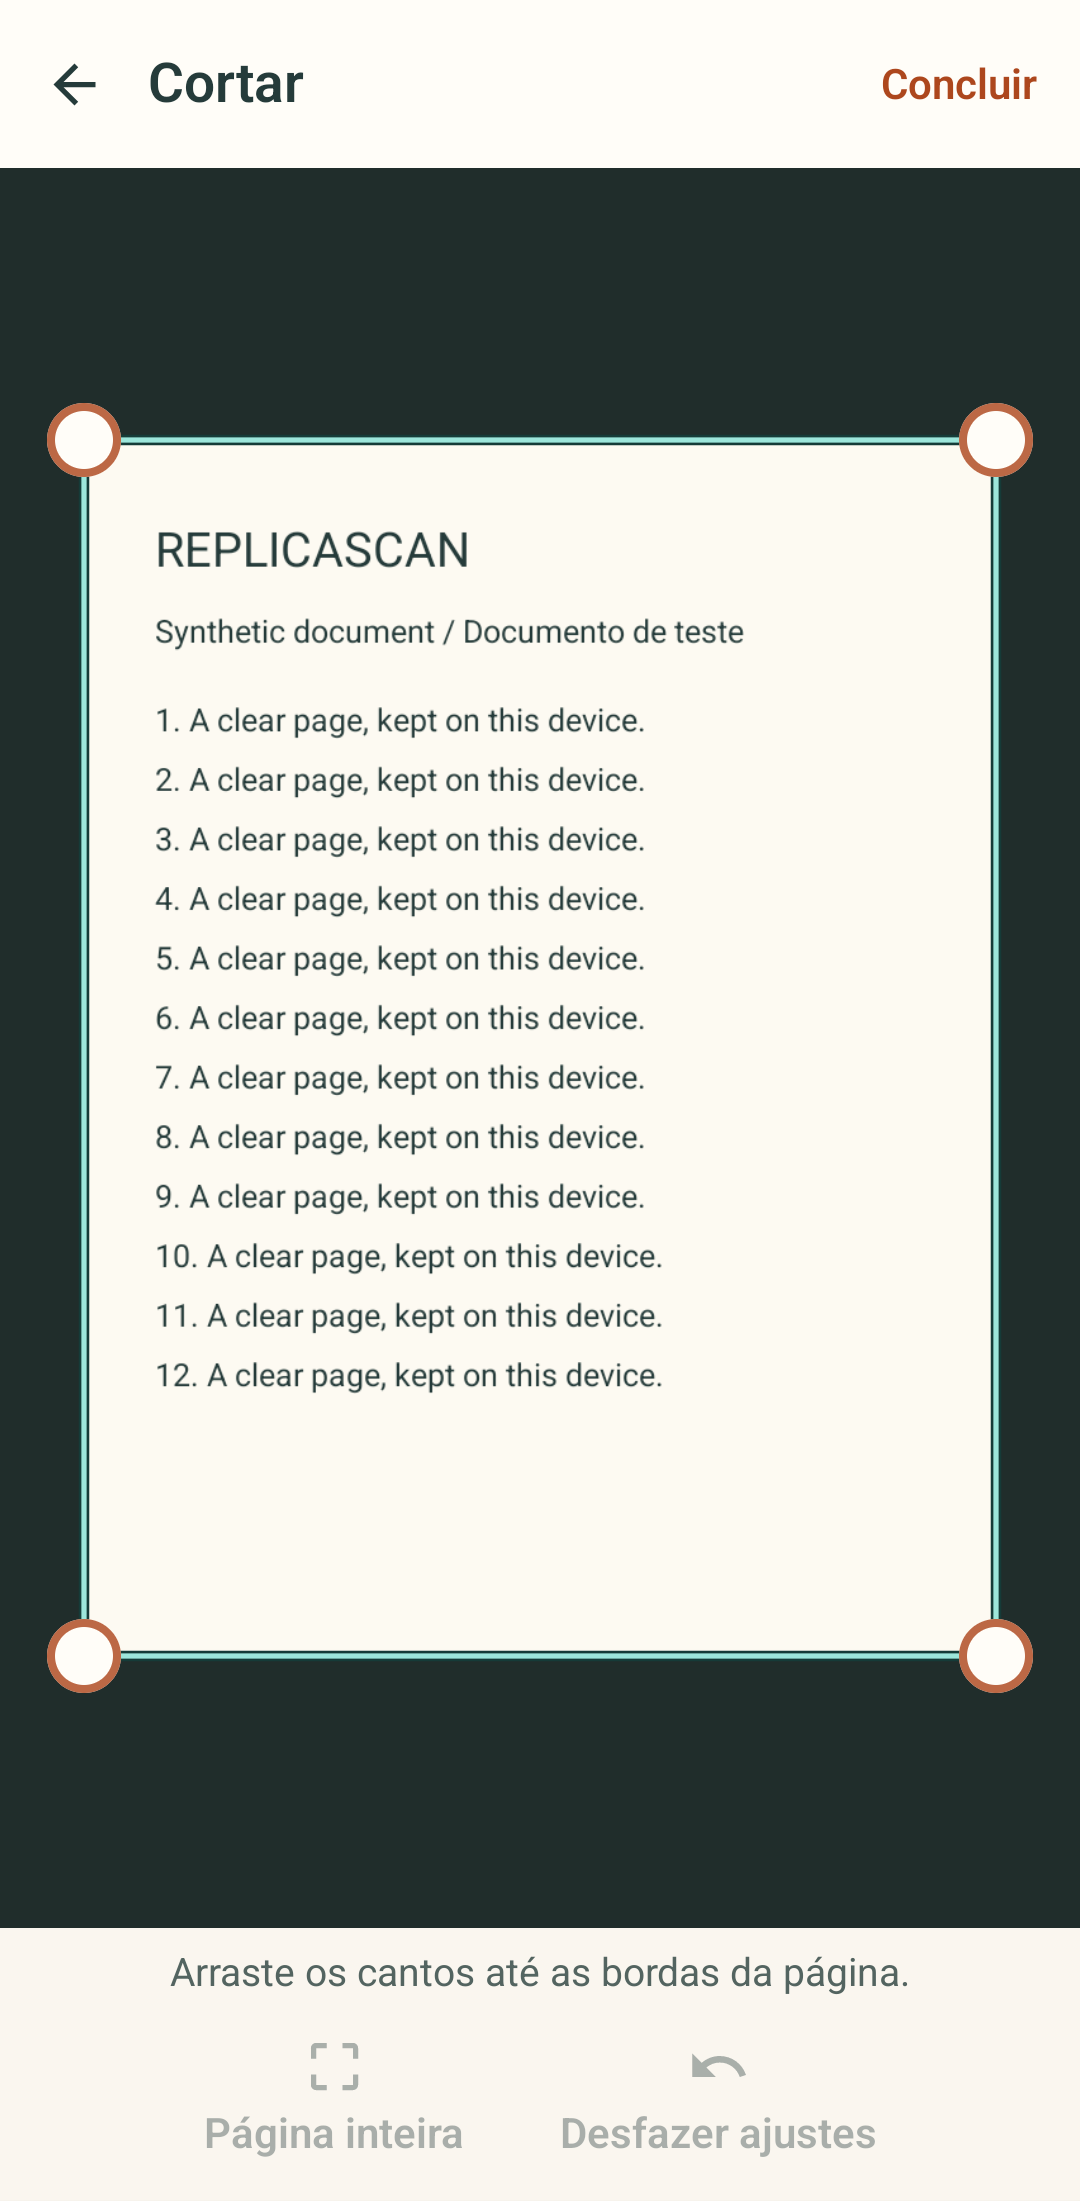
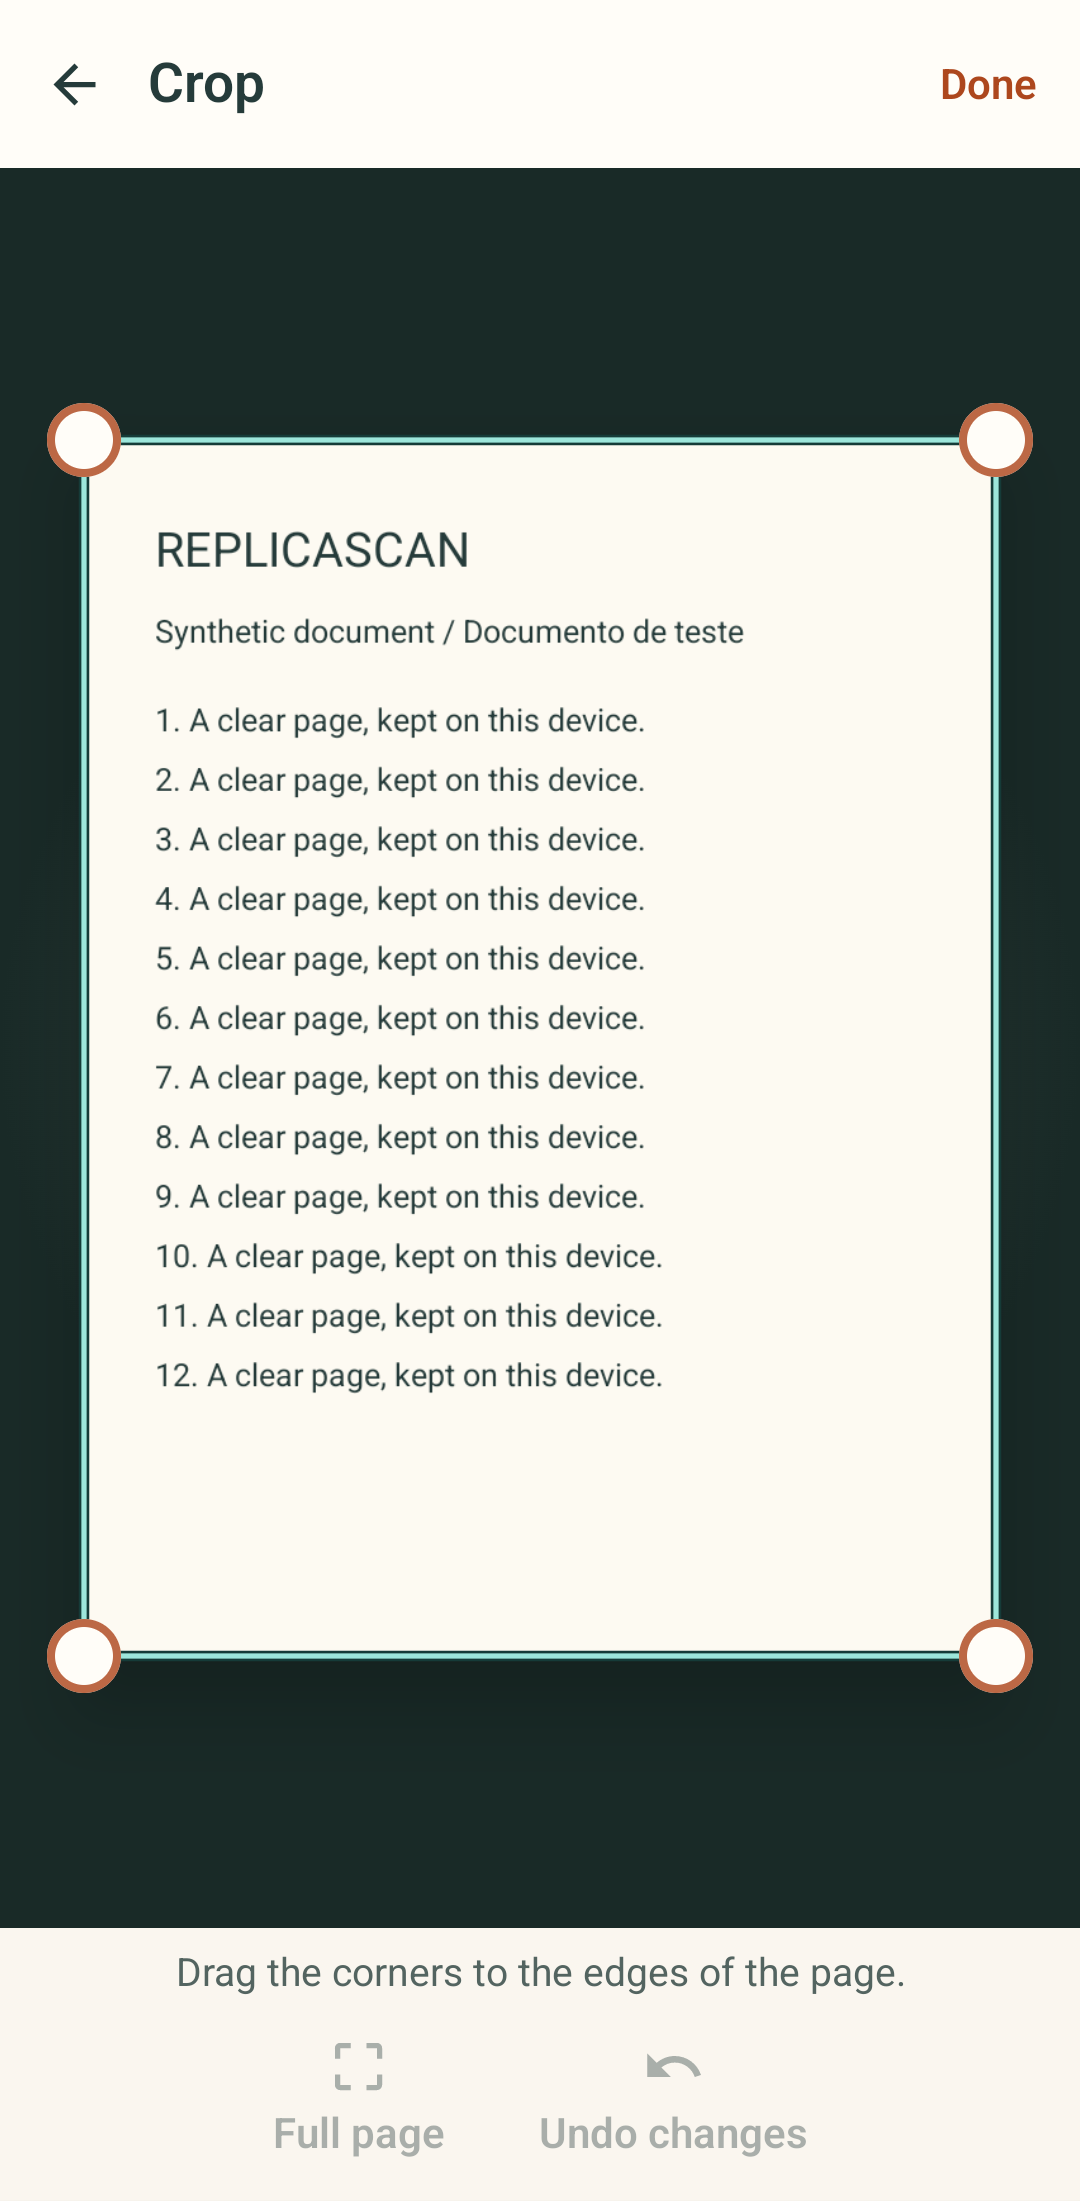
feat(editor): give review and crop a lit paper stage

diff --git a/feature-editor/src/main/java/com/soturine/replicascan/feature/editor/CropScreen.kt b/feature-editor/src/main/java/com/soturine/replicascan/feature/editor/CropScreen.kt
@@ -3,6 +3,7 @@ package com.soturine.replicascan.feature.editor
 import androidx.compose.animation.AnimatedContent
 import androidx.compose.foundation.background
 import androidx.compose.foundation.layout.Arrangement
+import androidx.compose.foundation.layout.Box
 import androidx.compose.foundation.layout.BoxWithConstraints
 import androidx.compose.foundation.layout.Column
 import androidx.compose.foundation.layout.Row
@@ -11,6 +12,7 @@ import androidx.compose.foundation.layout.fillMaxWidth
 import androidx.compose.foundation.layout.heightIn
 import androidx.compose.foundation.layout.navigationBarsPadding
 import androidx.compose.foundation.layout.padding
+import androidx.compose.foundation.layout.size
 import androidx.compose.material.icons.Icons
 import androidx.compose.material.icons.automirrored.outlined.Undo
 import androidx.compose.material.icons.outlined.CropFree
@@ -32,8 +34,12 @@ import androidx.compose.runtime.saveable.rememberSaveable
 import androidx.compose.runtime.setValue
 import androidx.compose.ui.Alignment
 import androidx.compose.ui.Modifier
+import androidx.compose.ui.draw.shadow
 import androidx.compose.ui.geometry.Rect
+import androidx.compose.ui.graphics.Brush
+import androidx.compose.ui.graphics.Color
 import androidx.compose.ui.layout.ContentScale
+import androidx.compose.ui.platform.LocalDensity
 import androidx.compose.ui.res.stringResource
 import androidx.compose.ui.semantics.LiveRegionMode
 import androidx.compose.ui.semantics.liveRegion
@@ -101,7 +107,7 @@ fun CropScreen(
                 modifier = Modifier
                     .weight(1f)
                     .fillMaxWidth()
-                    .background(androidx.compose.ui.graphics.Color(0xFF202D2B))
+                    .background(Brush.radialGradient(listOf(Color(0xFF3E504A), Color(0xFF192A27))))
                     .padding(32.dp),
             )
             Column(
@@ -172,8 +178,18 @@ private fun DocumentCropPreview(
 ) {
     var imageSize by remember(imageUri) { mutableStateOf(IntSize.Zero) }
     BoxWithConstraints(modifier = modifier) {
+        val density = LocalDensity.current
         val imageBounds = remember(constraints.maxWidth, constraints.maxHeight, imageSize) {
             computeFittedBounds(constraints.maxWidth.toFloat(), constraints.maxHeight.toFloat(), imageSize)
+        }
+        imageBounds?.let { bounds ->
+            Box(
+                Modifier
+                    .padding(start = with(density) { bounds.left.toDp() }, top = with(density) { bounds.top.toDp() })
+                    .size(with(density) { bounds.width.toDp() }, with(density) { bounds.height.toDp() })
+                    .shadow(18.dp, MaterialTheme.shapes.extraSmall)
+                    .background(Color(0xFFFFFBF2)),
+            )
         }
         AsyncUriImage(
             imageUri = imageUri,

diff --git a/feature-editor/src/main/java/com/soturine/replicascan/feature/editor/ReviewScreen.kt b/feature-editor/src/main/java/com/soturine/replicascan/feature/editor/ReviewScreen.kt
@@ -60,6 +60,9 @@ import androidx.compose.runtime.setValue
 import androidx.compose.ui.Alignment
 import androidx.compose.ui.Modifier
 import androidx.compose.ui.draw.clip
+import androidx.compose.ui.draw.shadow
+import androidx.compose.ui.graphics.Brush
+import androidx.compose.ui.graphics.Color
 import androidx.compose.ui.layout.ContentScale
 import androidx.compose.ui.layout.onSizeChanged
 import androidx.compose.ui.res.stringResource
@@ -68,6 +71,7 @@ import androidx.compose.ui.semantics.contentDescription
 import androidx.compose.ui.semantics.selected
 import androidx.compose.ui.semantics.semantics
 import androidx.compose.ui.text.style.TextOverflow
+import androidx.compose.ui.unit.IntSize
 import androidx.compose.ui.unit.dp
 import com.soturine.replicascan.core.common.model.ScanDocument
 import com.soturine.replicascan.core.common.model.ScanPage
@@ -266,12 +270,24 @@ private fun PagePreview(
     maxDimension: Int,
     modifier: Modifier = Modifier,
 ) {
-    Box(
+    var imageSize by remember(imageUri) { mutableStateOf(IntSize.Zero) }
+    val colors = MaterialTheme.colorScheme
+    BoxWithConstraints(
         modifier = modifier
-            .background(MaterialTheme.colorScheme.surfaceContainer)
-            .padding(16.dp),
+            .background(Brush.verticalGradient(listOf(colors.surfaceContainerHigh, colors.surfaceContainerLow)))
+            .padding(20.dp),
         contentAlignment = Alignment.Center,
     ) {
+        if (imageSize.width > 0 && imageSize.height > 0) {
+            val aspect = imageSize.width.toFloat() / imageSize.height
+            val paperWidth = minOf(maxWidth, maxHeight * aspect)
+            val paperHeight = paperWidth / aspect
+            Box(
+                Modifier.size(paperWidth, paperHeight)
+                    .shadow(18.dp, MaterialTheme.shapes.extraSmall)
+                    .background(Color(0xFFFFFBF2)),
+            )
+        }
         Crossfade(targetState = imageUri, label = "pagePreview") { uri ->
             AsyncUriImage(
                 imageUri = uri,
@@ -279,6 +295,8 @@ private fun PagePreview(
                 modifier = Modifier.fillMaxSize(),
                 contentScale = ContentScale.Fit,
                 maxDimension = maxDimension,
+                backgroundColor = Color.Transparent,
+                onBitmapLoaded = { imageSize = it },
             )
         }
         if (loading) CircularProgressIndicator(modifier = Modifier.size(36.dp))

diff --git a/docs/design/visual-recovery/SCREEN_REVIEW.md b/docs/design/visual-recovery/SCREEN_REVIEW.md
@@ -1,6 +1,6 @@
 # Revisão das telas — checkpoint de composição
 
-`STATUS: REVISÃO PARCIAL, ACEITE VISUAL PENDENTE` (2026-10-12).
+`STATUS: REVISÃO PARCIAL, ACEITE VISUAL PENDENTE` (2026-10-13).
 
 Fonte: [capturas atuais e comparação Android](evidence/review.html), com
 documento sintético no emulador API 34. O proprietário aprovou o master e as
@@ -9,12 +9,12 @@ automaticamente todas as telas, o movimento ou a release.
 
 | Destino/estado | Observação e decisão | Estado |
 |---|---|---|
-| Home com recentes e vazia | O texto disputava largura com uma raposa pequena. A arte passou a 136 dp e o texto de apoio ocupa a largura completa; em fonte 200%, a arte sai para preservar conteúdo e ações. Espaço inferior com poucos itens continua natural ao conteúdo. | Implementado; capturas API 34 claras, escuras e 200%; aceite pendente |
+| Home com recentes e vazia | Cena nativa de papel e raposa e CTA Escanear de 68 dp. Em fonte 200%, a cena sai para preservar conteúdo e ações. Espaço inferior com poucos itens continua natural ao conteúdo. | Implementado; capturas API 34 claras, escuras e 200%; aceite pendente |
 | Onboarding (3 páginas) | Saudação, leitura e sucesso agora acompanham escanear, revisar e guardar; antes, as duas primeiras páginas repetiam a pose de trabalho. A sequência ainda precisa de inspeção física de swipe/RTL. | Implementado; cinco testes Android focados passaram com a matriz visual; aceite pendente |
-| Revisão, crop e filtros | A página é protagonista, o recorte mantém quatro cantos e página inteira por padrão. Não mover controles nem geometria sem corpus real e teste de gesto. | Preservado; QA físico pendente |
+| Revisão, crop e filtros | Review/Crop dão luz e profundidade à página nativa. O recorte mantém quatro cantos e página inteira por padrão; controles, gesto e geometria não foram movidos. Filtros ainda precisam de refinamento. | Review/Crop capturados em claro e Review em escuro/RTL/fonte 200%; QA físico pendente |
 | OCR carregando, pronto e vazio | Texto reconhecido é a peça principal; o grande espaço livre com texto curto não deve ser preenchido por decoração. Estados de modelo e seleção precisam inspeção com OCR real e TalkBack. | Capturado com estado injetado; fluxo real pendente |
 | Exportação: PDF/JPG/PNG | Prévia, quantidade de páginas e formato atual agora formam uma superfície única; nome, qualidade e tamanho continuam editáveis e progressivos. Estado escuro com fonte 200% exige rolagem para opções inferiores. | Implementado; capturas API 34; aceite pendente |
-| Exportação: progresso, sucesso, erro | Progresso mostra a página real e trabalho em curso, agora agrupados no centro da altura disponível; sucesso identifica o arquivo; erro mantém recuperação. O movimento continua por pose inteira. | Capturado com estado injetado; exportação real/aceite pendentes |
+| Exportação: progresso, sucesso, erro | A mesma folha real e a raposa acompanham preparo, gravação, sucesso e recuperação, com pose articulada conforme o estado. Sucesso identifica o arquivo e erro preserva opções de nova tentativa. | Capturado com estado injetado; exportação real/aceite pendentes |
 | Histórico, busca, detalhe | Uma biblioteca com só um item deixa espaço livre; não adicionar conteúdo artificial. Busca e ações documentais devem ser exercitadas em aparelho. | Capturado; interação pendente |
 | Configurações, idioma, sobre | Grupos e alvos de toque estão claros, embora a linguagem visual ainda seja próxima do Material padrão. Validar todos os idiomas, RTL e fonte ampliada. | Capturado; revisão linguística/QA pendentes |
 | Ícone adaptativo | Raposa + documento são legíveis nas máscaras capturadas, mas o traço vetorial é mais plano que a mascote aprovada. | Divergência visual aberta; escolha do proprietário pendente |

diff --git a/README.md b/README.md
@@ -27,7 +27,7 @@ Não há conta, backend, sincronização ou upload obrigatório de documentos. C
 
 ## Redesign e evidência
 
-A base da v0.4.1 traz papel marfim, tinta petróleo e terracota, revisão de telas, crop com cantos independentes e exportação com nome de arquivo, progresso e recuperação persistente. O visual do ciclo anterior foi rejeitado pelo proprietário. Um novo master e sete poses baseados na raposa da v0.4.0 receberam aceite como arte estática. A pose de atenção teve patas extras corrigidas e um rig candidato com camadas independentes foi capturado no Android. A Home integra a raposa à cena de papel e prioriza Escanear inclusive com fonte 200%; a exportação conecta prévia real e raposa em preparo, progresso, sucesso e erro. Introdução, animação, ícone e conjunto das telas continuam sem aceite final.
+A base da v0.4.1 traz papel marfim, tinta petróleo e terracota, revisão de telas, crop com cantos independentes e exportação com nome de arquivo, progresso e recuperação persistente. O visual do ciclo anterior foi rejeitado pelo proprietário. Um novo master e sete poses baseados na raposa da v0.4.0 receberam aceite como arte estática. A pose de atenção teve patas extras corrigidas e um rig candidato com camadas independentes foi capturado no Android. A Home integra a raposa à cena de papel e prioriza Escanear inclusive com fonte 200%; a exportação conecta prévia real e raposa em preparo, progresso, sucesso e erro. Revisão e recorte receberam luz e profundidade de papel sem mudar os controles de edição. Introdução, animação, ícone e conjunto das telas continuam sem aceite final.
 
 Veja a [auditoria de recuperação visual](docs/design/visual-recovery/AUDIT.md), a [prancha das poses](docs/design/visual-recovery/candidates/review.html), o [clipe e as capturas Android atuais](docs/design/visual-recovery/evidence/README.md), a [revisão por tela](docs/design/visual-recovery/SCREEN_REVIEW.md) e a [matriz de validação](docs/design/visual-recovery/VALIDATION_MATRIX.md). O material novo usa estados injetados e documento sintético; não substitui QA físico, TalkBack humano, revisão linguística nativa ou aceite final.
 

diff --git a/CHANGELOG.md b/CHANGELOG.md
@@ -7,6 +7,7 @@ Este projeto segue Semantic Versioning e recomenda Conventional Commits no fluxo
 - Recuperação visual em andamento após rejeição do redesign anterior: master e poses baseados na raposa da v0.4.0 aprovados como arte estática; movimento e telas ainda pendentes de aceite.
 - Rig Compose candidato articula cabeça, cauda, patas, folha e piscadas em camadas de renderização; a pose de atenção teve patas extras removidas. Clipe Android v2 e frames consecutivos publicados para revisão, ainda sem aceite final do movimento.
 - Home recomposta com a raposa diante de uma folha iluminada, botão Escanear mais evidente e estado vazio sem cartão pesado; em fonte 200% a ilustração cede espaço às ações. Capturas nativas claras e escuras atualizadas.
+- Revisão e recorte passam a iluminar a página e dar profundidade ao papel; prévia, quatro alças, gesto e recorte de página inteira mantêm a mesma geometria.
 - Exportação recomposta em quatro cenas ligadas à prévia real do documento: preparo com opções progressivas, trabalho com progresso, sucesso com arquivo e ações, erro com recuperação. A folha mantém iluminação no tema escuro e forma pilha quando há várias páginas; callbacks e estados de gravação existentes foram preservados.
 - Atlas deformado substituído por poses completas em Compose, com movimento discreto, respeito ao lifecycle/redução de movimento e clipe de frames Android. Exportação em andamento voltou a mostrar prévia e identificação da página.
 - Home com mascote mais legível e texto em largura completa; em fonte 200% a arte cede espaço ao conteúdo. Opções de exportação reúnem prévia, páginas e formato atual na mesma superfície.

diff --git a/docs/design/visual-recovery/evidence/README.md b/docs/design/visual-recovery/evidence/README.md
@@ -13,6 +13,10 @@ sem cartão e folha iluminada no tema escuro; `home-dark-200.png` documenta a
 composição sem ilustração em fonte 200%. As demais capturas vêm da
 fatia anterior do mesmo runtime com as poses aprovadas.
 
+`review.png`, `crop.png` e `review-dark-200-rtl.png` foram recapturados em
+2026-10-13 após a iluminação e a profundidade da página. O teste confirma
+renderização desses estados; o gesto de recorte ainda requer QA físico.
+
 O [clipe v2](mascot-motion-v2.mp4) reúne 64 frames renderizados no Android com o
 clock de teste em passos de 125 ms e codificados em MP4 a 8 fps. Sequência:
 repouso → trabalho → sucesso → atenção. Não é `adb screenrecord` em tempo real,
